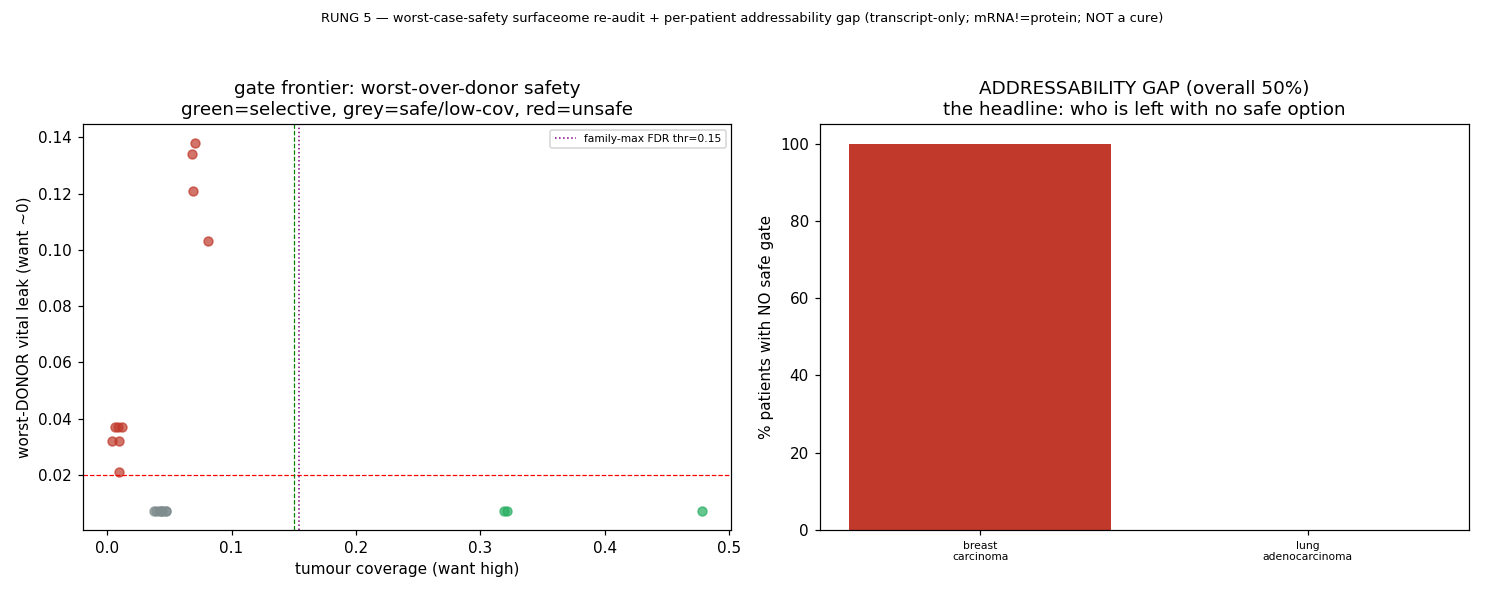
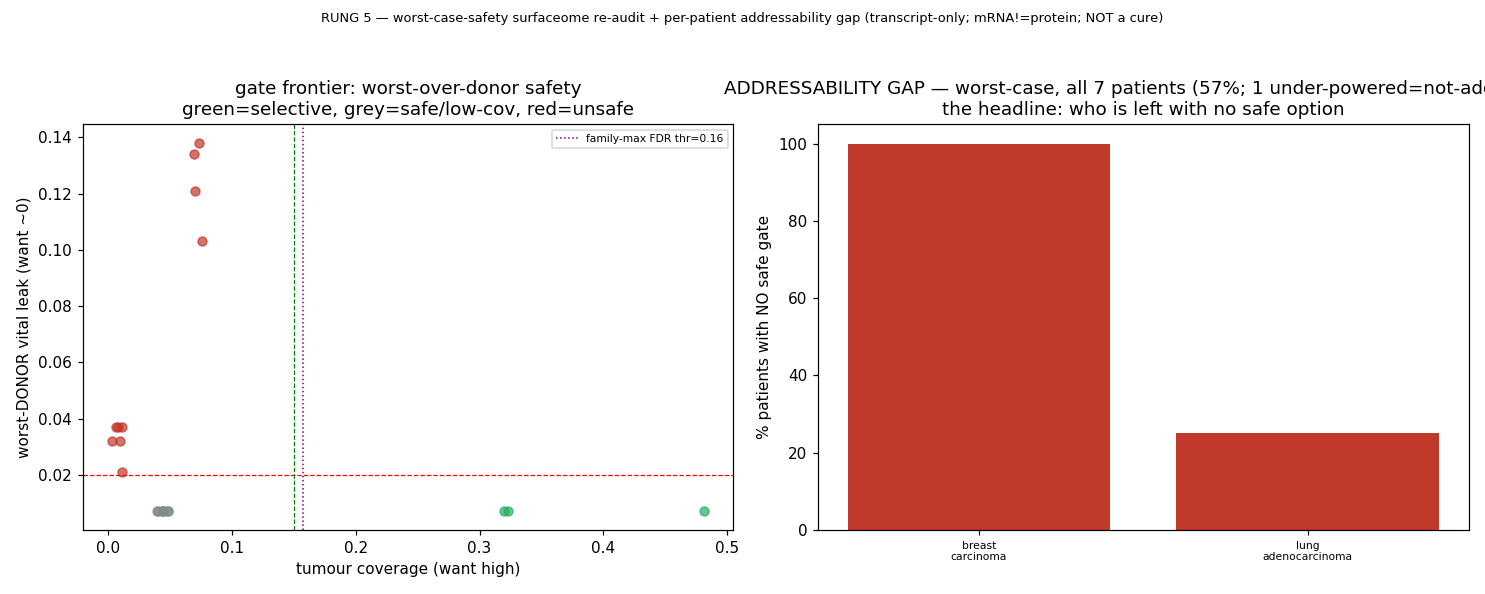
RUNG 5: fix 2 NEW holes the addressability fix introduced (re-audit wf_ae523721, both falsely-LOW gap)
A second adversarial pass re-audited the 6 fixes: 5/6 confirmed sound by two independent foci; the
datalayer/F1 (addressability) fix had introduced TWO new holes, both in the dangerous falsely-LOW-gap direction:
 F4-NEW-1 (HIGH): the LOGGED + plotted HEADLINE gap was powered-patients-only -> genuinely-unaddressed
   low-yield patients silently vanished (headline could read 0% when truth is 67%). FIX: headline is now the
   WORST-CASE over ALL patients (under-powered counted as not-addressed); point-over-powered is secondary.
 F4-NEW-2 (HIGH): the 'worst-case' did NOT force under-powered patients to not-addressed, so a noisy small-n
   patient (lower bound clears the bar on 1 firing cell) could DILUTE it below the point gap. FIX: under-powered
   forced not-addressed in the worst-case -> it is now a true UPPER bound (worst-case >= point, asserted).
 F4-NEW-3: selftest never exercised the under-powered path -> added an under-powered noisy-fire LUAD patient;
   selftest now 9/9 and asserts the invariant + that the noisy under-powered patient is NOT falsely addressed.

Re-validated: scripts/25 selftest 9/9 (headline now 'worst-case over ALL patients'); manifest documents the
re-audit (audit_fixes.re_audit_F4). The other 5 fixes confirmed sound; no new holes elsewhere.

diff --git a/scripts/25_logicgate_data_rung5.py b/scripts/25_logicgate_data_rung5.py
@@ -349,21 +349,28 @@ def addressability_gap(panel, surviving_gates):
                 addressed[p] = True
     powered = [p for p in patients if pcells[p] >= MIN_PATIENT_CELLS]
     underpowered = [p for p in patients if pcells[p] < MIN_PATIENT_CELLS]
+    # re-audit F4-NEW-2 FIX: in the worst-case, an UNDER-POWERED patient is forced to NOT-addressed (its
+    # noisy lower bound is not trustworthy), so the worst-case is a true UPPER bound on the gap (>= point gap)
+    # and a noisy small-n patient can never DILUTE it downward.
+    eff = {p: (addressed[p] if pcells[p] >= MIN_PATIENT_CELLS else False) for p in patients}
 
-    def _gaps(plist):
+    def _gaps(plist, amap):
         by = {}
         for p in plist:
-            by.setdefault(ptype[p], []).append(addressed[p])
-        overall = 1.0 - (sum(addressed[p] for p in plist) / max(1, len(plist)))
+            by.setdefault(ptype[p], []).append(amap[p])
+        overall = 1.0 - (sum(amap[p] for p in plist) / max(1, len(plist)))
         return round(overall, 3), {t: round(1.0 - sum(v) / len(v), 3) for t, v in by.items()}
 
-    gap_point, gap_by_type = _gaps(powered) if powered else (1.0, {})
-    gap_worstcase, _ = _gaps(patients)             # under-powered counted as not-addressed
+    # HEADLINE = WORST-CASE over ALL patients (under-powered = not-addressed) — re-audit F4-NEW-1 FIX: never
+    # surface a powered-only gap as the headline; genuinely-unaddressed low-yield patients must NOT vanish.
+    gap_worstcase, gap_by_type = _gaps(patients, eff)
+    gap_point, _ = _gaps(powered, addressed) if powered else (1.0, {})   # secondary: over powered patients only
     return {"n_patients": len(patients), "n_powered_patients": len(powered),
             "n_underpowered_patients": len(underpowered), "min_patient_cells": MIN_PATIENT_CELLS,
-            "addressability_gap_overall": gap_point,
+            "addressability_gap_overall": gap_worstcase,                 # HEADLINE = honest worst-case
+            "addressability_gap_point_powered": gap_point,               # secondary (powered patients only)
             "addressability_gap_worstcase": gap_worstcase,
-            "addressability_gap_by_cancer_type": gap_by_type,
+            "addressability_gap_by_cancer_type": gap_by_type,            # worst-case by type
             "best_per_patient_coverage_lb": {p: round(c, 3) for p, c in best_lb.items()},
             "n_surviving_gates": len(surviving_gates)}
 
@@ -433,8 +440,11 @@ def run_pipeline(panel, genes, tag, required_vital=REQUIRED_VITAL):
     log(f"[{tag}] {len(survivors)} gates SURVIVE FDR + shrinkage + GUARD B (donor-permutation null).")
 
     gap = addressability_gap(panel, surviving_gates)
-    log(f"[{tag}] ADDRESSABILITY GAP: {gap['addressability_gap_overall']:.0%} of {gap['n_patients']} patients "
-        f"have NO safe gate at coverage >= {COV_BAR}.  by type: {gap['addressability_gap_by_cancer_type']}")
+    log(f"[{tag}] ADDRESSABILITY GAP (worst-case over ALL {gap['n_patients']} patients, "
+        f"{gap['n_underpowered_patients']} under-powered counted as not-addressed): "
+        f"{gap['addressability_gap_overall']:.0%} have NO safe gate at coverage >= {COV_BAR} "
+        f"[point over {gap['n_powered_patients']} powered patients: {gap['addressability_gap_point_powered']:.0%}].  "
+        f"by type: {gap['addressability_gap_by_cancer_type']}")
 
     _figure(scored, gap, thr, f"rung5_{tag}.png")
     return {
@@ -476,7 +486,8 @@ def _figure(scored, gap, thr, name):
             ax[1].set_xticks(range(len(types)))
             ax[1].set_xticklabels([t.replace(" ", "\n") for t in types], fontsize=7)
             ax[1].set_ylabel("% patients with NO safe gate"); ax[1].set_ylim(0, 105)
-            ax[1].set_title(f"ADDRESSABILITY GAP (overall {gap['addressability_gap_overall']:.0%})\n"
+            ax[1].set_title(f"ADDRESSABILITY GAP — worst-case, all {gap['n_patients']} patients "
+                            f"({gap['addressability_gap_overall']:.0%}; {gap['n_underpowered_patients']} under-powered=not-addressed)\n"
                             f"the headline: who is left with no safe option")
         fig.suptitle("RUNG 5 — worst-case-safety surfaceome re-audit + per-patient addressability gap "
                      "(transcript-only; mRNA!=protein; NOT a cure)", fontsize=8.5)
@@ -528,6 +539,10 @@ def _selftest_panel():
     # cancer type LUAD: 3 patients; CLEANA/B co-positive (planted clean gate covers them well -> addressed)
     for d in range(3):
         add("tumour_malignant", "lung adenocarcinoma", "tumour", f"luad::{d}", [HI, HI, MID, LOW, LOW, LOW, LOW], 300)
+    # an UNDER-POWERED LUAD patient (n=10 < MIN_PATIENT_CELLS=30) that FIRES the clean gate (noisy HIGH lower
+    # bound). re-audit F4-NEW-2: the worst-case MUST force it not-addressed (its lower bound is untrustworthy),
+    # so it appears as a LUAD gap rather than being falsely counted as addressed.
+    add("tumour_malignant", "lung adenocarcinoma", "tumour", "luad::underpowered", [HI, HI, MID, LOW, LOW, LOW, LOW], 10)
     # cancer type BRCA: 3 patients with NO tumour-exclusive antigen — only BROAD (shared with normal) is high,
     # so no SAFE high-coverage gate exists for them -> a real per-type ADDRESSABILITY GAP (BRCA gap ~100%).
     for d in range(3):
@@ -553,6 +568,14 @@ def selftest() -> int:
         "BRCA gap > LUAD gap (planted: clean gate misses BRCA patients)":
             gap.get("addressability_gap_by_cancer_type", {}).get("breast carcinoma", 0)
             > gap.get("addressability_gap_by_cancer_type", {}).get("lung adenocarcinoma", 1),
+        # re-audit F4-NEW-1/2/3: under-powered patients are exercised, the worst-case is a true UPPER bound
+        # on the gap (>= point), and a noisy under-powered patient is NOT falsely counted as addressed.
+        "under-powered patient path is exercised (>=1 under-powered)":
+            gap.get("n_underpowered_patients", 0) >= 1,
+        "worst-case gap >= point gap (invariant; headline is the worst-case)":
+            gap.get("addressability_gap_worstcase", 0) >= gap.get("addressability_gap_point_powered", 1) - 1e-9,
+        "F4-NEW-2: noisy under-powered LUAD patient FORCED not-addressed (LUAD worst-case > 0 though powered LUAD addressed)":
+            gap.get("addressability_gap_by_cancer_type", {}).get("lung adenocarcinoma", 0) > 0,
     }
     print("=" * 92)
     print("SELF-TEST CHECKS:")